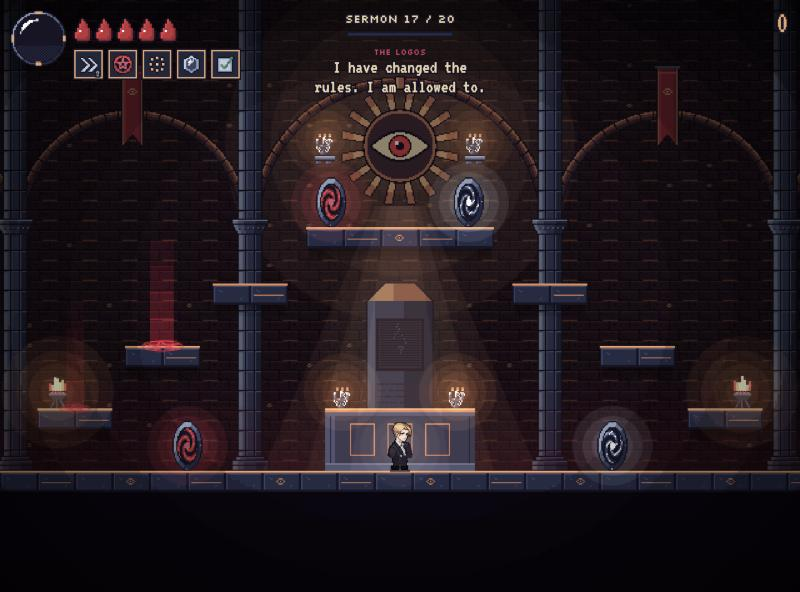
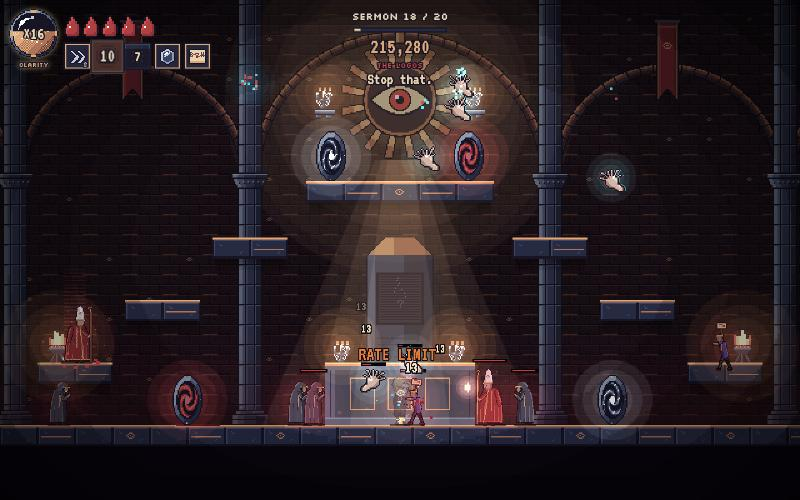
README: current title and in-game screenshots

diff --git a/README.md b/README.md
@@ -30,7 +30,7 @@ the nave to the tomb where the Logos began.
   danger colour, screen shake, fullscreen, and save codes to back up progress.
 
 ![Couch co-op in the nave](docs/coop.jpg)
-![The tomb of the Logos](docs/tomb.jpg)
+![Sermon 18, in the tomb of the Logos](docs/tomb.jpg)
 ![Followers de-rendering](docs/derender.jpg)
 
 ## Controls
